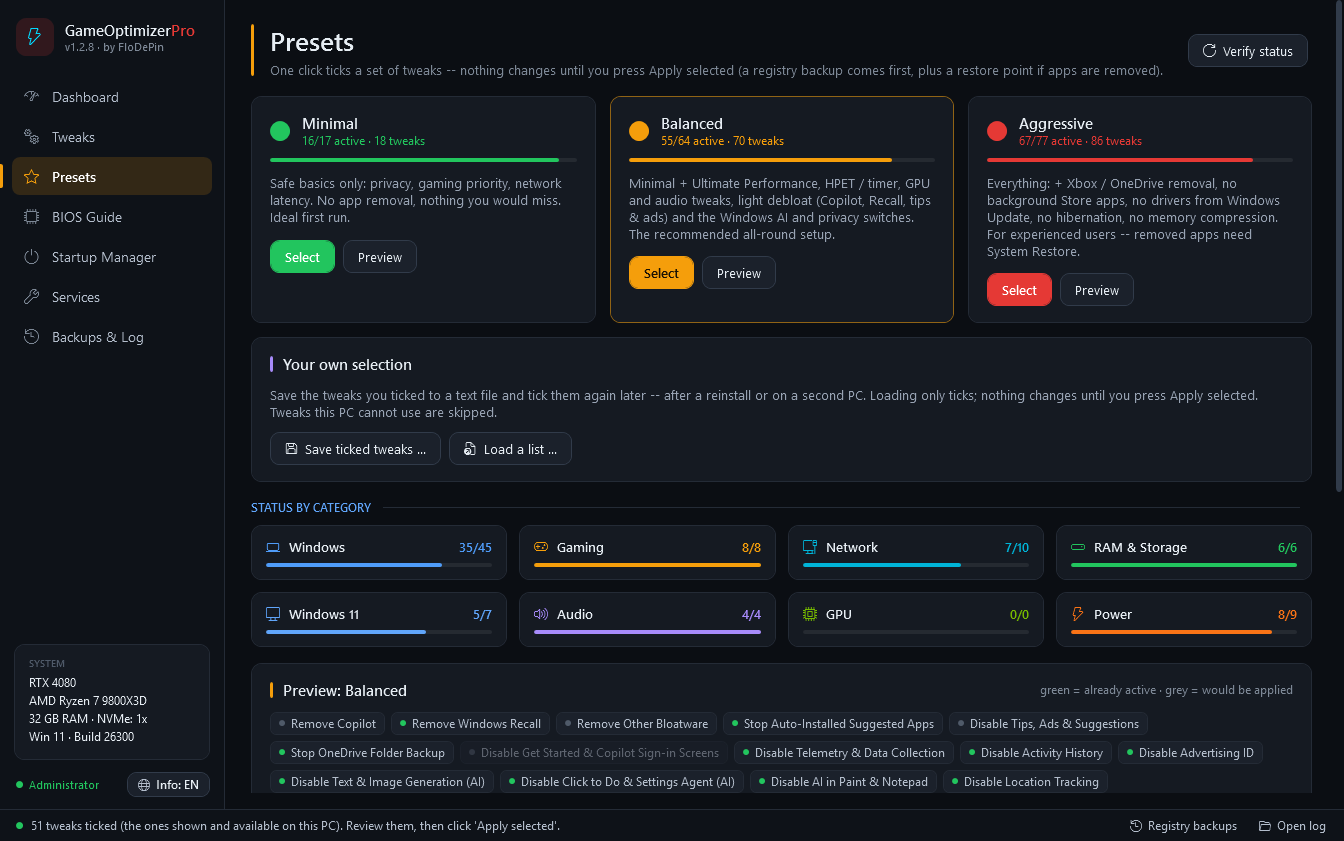
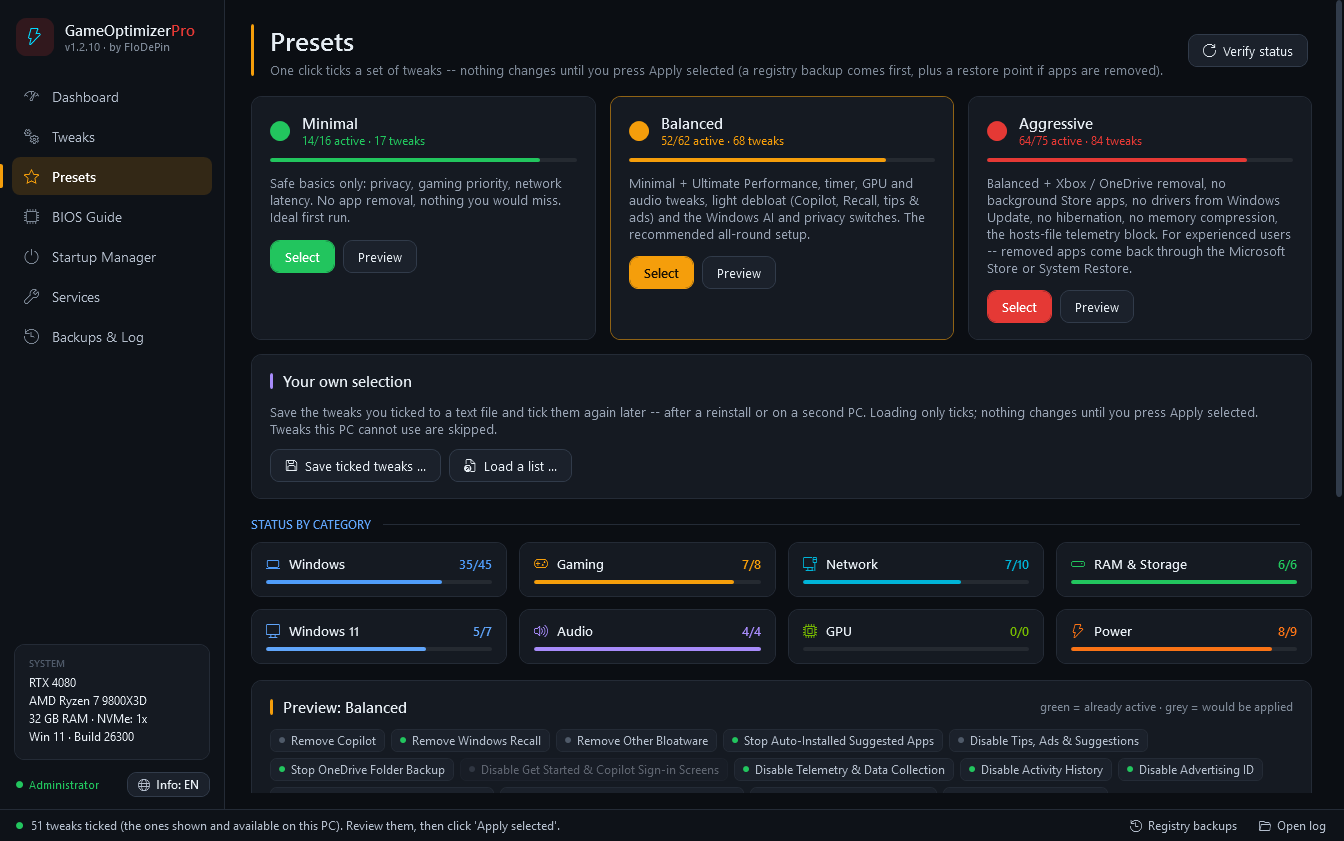
v1.2.10: third audit -- CPU priority value fixed (0x26), honest texts, RedirectionGuard for shared-folder cleanups
- CPU Priority for Games wrote decimal 26 (0x1A: long, fixed quanta, no foreground
  boost) instead of 0x26; now 0x26 (Programs), check decodes the bit fields,
  drift check offers the fix with a note
- Disable Fullscreen Optimizations out of Minimal, Disable Prefetch & Superfetch out
  of Balanced (Microsoft docs); presets 17 / 68 / 84
- honest descriptions: Nagle, MMCSS games, MSI mode, ULPS, memory compression,
  display sleep, SysMain/WSearch/HvHost in the Services Manager, preset cards
- RedirectionGuard before cleanups outside the user profile; System Logs cleanup
  keeps the installer folder; cleanups pump the dispatcher
- window can't be closed while an Apply / Revert runs
- Startup Manager no longer hides entries named PS*
- installer removes only its own admin-owned, non-link folders in Windows\Temp

diff --git a/CHANGELOG.md b/CHANGELOG.md
@@ -6,6 +6,30 @@ All notable changes to GameOptimizerPro (the PowerShell edition), newest first. 
 
 ---
 
+## [1.2.10] — 2026-11-27
+
+A third audit, run the same way as the one before 1.2.8 — and started over after every round of fixes until it found nothing more.
+
+- **"CPU Priority for Games" did the opposite** — it wrote 26 as a decimal number instead of 0x26. Windows reads decimal 26 as long, fixed time slices with no priority for the program in the foreground — close to the "Background services" setting. It now sets "Programs" (0x26: short, variable time slices, the game in the foreground gets three times as long a turn), which is also the Windows default on Home and Pro. Where GameOptimizerPro recorded the tweak, the next start offers the fix ("no longer in effect") and says why; otherwise tick it and apply it again.
+- **Two tweaks left the presets** — *Disable Fullscreen Optimizations* (Minimal) and *Disable Prefetch & Superfetch* (Balanced): Microsoft measured fullscreen optimizations as fast as exclusive fullscreen for almost all players, and documents Prefetch / SysMain as making Windows and apps start faster, from SSDs too. Both stay available by hand, with honest descriptions. Presets: 17 / 68 / 84 tweaks.
+- **Honest descriptions** — Nagle (only TCP; most online shooters use UDP), MMCSS gaming profile (only for games that register as game threads), MSI mode (current drivers mostly use it already), AMD ULPS (no proven gain with a single card), memory compression (only works when RAM runs low), display sleep (the battery value was never set on laptops). The Services Manager no longer calls SysMain "unnecessary on SSDs"; the Presets page no longer mentions HPET and calls Aggressive "Balanced +" instead of "Everything".
+- **Cleanups in shared folders** — before cleaning `Windows\Temp` or the error-report queues the app switches on Windows' *RedirectionGuard*: junctions a standard user made are not followed at all any more, so the moment between listing and deleting can't be used to redirect a delete either. *Clean System Logs & Crash Dumps* leaves the installer's folder alone (like *Clean Temp Files*), and big cleanups keep the window answering.
+- **The window waits for a running Apply / Revert** — since 1.2.8 the window keeps answering during long steps, and closing it then let the work go on without a window. Now it can be closed once the step is done.
+- **Startup Manager** — entries whose name starts with "PS" (e.g. *PS Remote Play*) were hidden; they are listed now.
+- **Installer** — removes only its own old folders in `Windows\Temp` (owned by the administrators, no links).
+
+<details>
+<summary><b>Development log — 1.2.10</b></summary>
+
+- **Rounds** — round 1: the code read again flow by flow (Apply, Revert, drift check, cleanups, installer, Services and Startup Manager) and every claim in the preset and tweak texts checked against Microsoft's documentation; round 2 found a missing-variable edge in the new cleanup code, round 3 the SysMain text in the Services Manager, round 4 the "PS" filter in the Startup Manager, round 5 nothing.
+- **Sources** — Microsoft Learn: Win32PrioritySeparation (the AABBCC bit fields), *Demystifying Fullscreen Optimizations* (DirectX blog), Enable-MMAgent (application launch prefetching), the VDI optimization guide (SysMain), TcpAckFrequency, PROCESS_MITIGATION_REDIRECTION_TRUST_POLICY and the MSRC blog on RedirectionGuard.
+- **Measured** — on the developer PC, read only: Windows PowerShell 5.1's `Remove-Item -Recurse` removes a junction itself, not what it points to — but a delete through a junction in the *path* hits the target, and that is what RedirectionGuard closes. RedirectionGuard tested in a separate process: a junction a standard user made is blocked, normal folders work.
+- **Tests** — new scenarios: processor scheduling (Windows default, the old 26, the drift offer, Apply, a decode table), RedirectionGuard only outside the user profile, the installer's folder kept by the system-log cleanup, preset contents and sizes; new unit tests: RedirectionGuard on real NTFS, startup entries named "PS…". Both test PCs: no failures, presets 17 / 68 / 84 without errors; the offscreen app test passes; the real system unchanged.
+
+</details>
+
+---
+
 ## [1.2.9] — 2026-11-26
 
 A second check of the 1.2.8 fixes, the same way the audit ran, found two more places of the junction kind.

diff --git a/README.de.md b/README.de.md
@@ -138,9 +138,9 @@ powershell -ExecutionPolicy Bypass -File .\GameOptimizerPro.ps1
 
 | Preset | Tweaks | Für wen |
 |---|:---:|---|
-| 🟢 **Minimal** | 18 | Sichere Grundlagen: Datenschutz, Gaming-Priorität, Netzwerk-Latenz. Keine App-Entfernung — ideal für den ersten Lauf. |
-| 🟠 **Balanced** | 70 | Minimal + Ultimate Performance, Timer, GPU- und Audio-Tweaks, leichtes Debloat (Copilot, Recall, Tipps & Werbung) und die Windows-KI- und Datenschutz-Schalter. Die empfohlene Allround-Einstellung. |
-| 🔴 **Aggressive** | 86 | Alles, inkl. Entfernen von Xbox-Apps und OneDrive, keine Store-Apps im Hintergrund, keine Treiber über Windows Update, kein Ruhezustand, keine Speicherkomprimierung, die Telemetrie-Sperre in der hosts-Datei. Für erfahrene Nutzer. Tweaks, die Microsoft als Einstellungen zur Fehlersuche beschreibt (Dynamic Tick, GPU-Timeout), und *Disable Write-Cache Buffer Flushing* (Datenverlust möglich) sind in keinem Preset. |
+| 🟢 **Minimal** | 17 | Sichere Grundlagen: Datenschutz, Gaming-Priorität, Netzwerk-Latenz. Keine App-Entfernung — ideal für den ersten Lauf. |
+| 🟠 **Balanced** | 68 | Minimal + Ultimate Performance, Timer, GPU- und Audio-Tweaks, leichtes Debloat (Copilot, Recall, Tipps & Werbung) und die Windows-KI- und Datenschutz-Schalter. Die empfohlene Allround-Einstellung. |
+| 🔴 **Aggressive** | 84 | Balanced und dazu das Entfernen von Xbox-Apps und OneDrive, keine Store-Apps im Hintergrund, keine Treiber über Windows Update, kein Ruhezustand, keine Speicherkomprimierung, die Telemetrie-Sperre in der hosts-Datei. Für erfahrene Nutzer. Tweaks, die Microsoft als Einstellungen zur Fehlersuche beschreibt (Dynamic Tick, GPU-Timeout), *Disable Write-Cache Buffer Flushing* (Datenverlust möglich) und zwei, die laut Microsoft eher bremsen oder nichts bringen (Prefetch / SysMain aus, Vollbildoptimierungen aus), sind in keinem Preset. |
 
 Ein Preset setzt nur die Haken — du prüfst die Liste und klickst selbst auf **Apply selected**. Schon aktive Tweaks bleiben, wie sie sind. Bewusst in keinem Preset: automatische Windows-Updates oder TCP-Auto-Tuning abschalten, die geplante Laufwerksoptimierung, Funktionsupdates anhalten, die DNS-Anbieter und ein paar Geschmacksfragen.
 

diff --git a/README.md b/README.md
@@ -136,9 +136,9 @@ powershell -ExecutionPolicy Bypass -File .\GameOptimizerPro.ps1
 
 | Preset | Tweaks | For whom |
 |---|:---:|---|
-| 🟢 **Minimal** | 18 | Safe basics: privacy, gaming priority, network latency. No app removal — the ideal first run. |
-| 🟠 **Balanced** | 70 | Minimal + Ultimate Performance, timer, GPU and audio tweaks, light debloat (Copilot, Recall, tips & ads) and the Windows AI and privacy switches. The recommended all-round setup. |
-| 🔴 **Aggressive** | 86 | Everything, incl. Xbox and OneDrive removal, no background Store apps, no drivers from Windows Update, no hibernation, no memory compression, the telemetry block in the hosts file. For experienced users. Tweaks Microsoft documents as debugging settings (dynamic tick, GPU timeout) and *Disable Write-Cache Buffer Flushing* (risk of data loss) are in no preset. |
+| 🟢 **Minimal** | 17 | Safe basics: privacy, gaming priority, network latency. No app removal — the ideal first run. |
+| 🟠 **Balanced** | 68 | Minimal + Ultimate Performance, timer, GPU and audio tweaks, light debloat (Copilot, Recall, tips & ads) and the Windows AI and privacy switches. The recommended all-round setup. |
+| 🔴 **Aggressive** | 84 | Balanced plus Xbox and OneDrive removal, no background Store apps, no drivers from Windows Update, no hibernation, no memory compression, the telemetry block in the hosts file. For experienced users. Tweaks Microsoft documents as debugging settings (dynamic tick, GPU timeout), *Disable Write-Cache Buffer Flushing* (risk of data loss) and two that Microsoft measured as making things slower or no faster (Prefetch / SysMain off, fullscreen optimizations off) are in no preset. |
 
 A preset only ticks the boxes — you review the list and click **Apply selected** yourself. Tweaks that are already active are left as they are. On purpose in no preset: turning off automatic Windows updates or TCP auto-tuning, the scheduled drive optimization, holding feature updates, the DNS providers and a few matters of taste.
 
